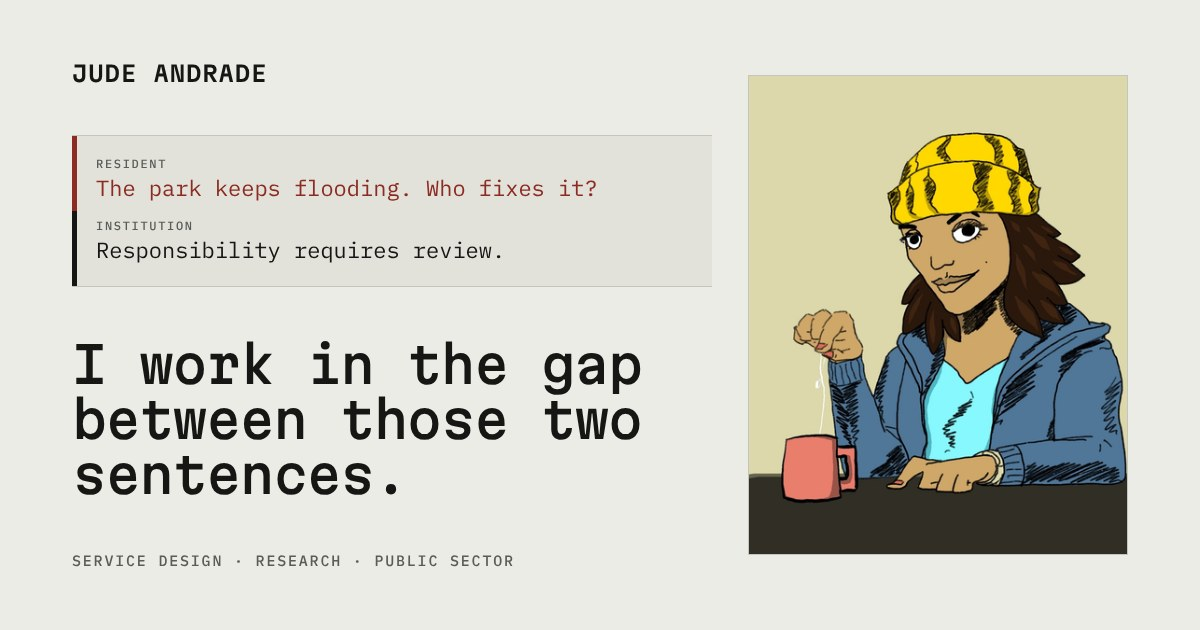
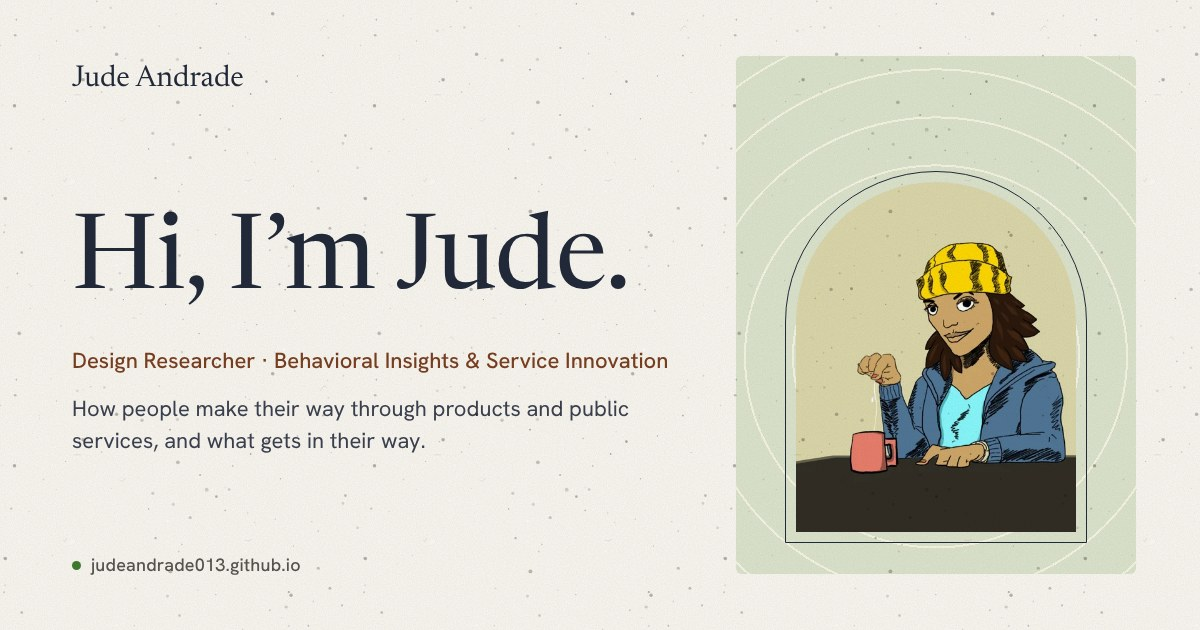
New link-preview image in the current design
Claude-Session: https://claude.ai/code/session_011crcDCecaUN1d2qwMdmWRM

diff --git a/index.html b/index.html
@@ -20,7 +20,11 @@
 (function(){var h=location.hash;if(!h)return;var m={"#cab-rules":"taxi","#koala":"koala","#public-services":"digital-services","#gallery":"digital-services","#memorial-park":"memorial-park","#fees":"fees"},p={"ko-":"koala","fp-":"digital-services","ms-":"memorial-park","fe-":"fees","tx-":"taxi","taxi-":"taxi"};var t=m[h];if(!t){for(var k in p){if(h.indexOf("#"+k)===0){t=p[k];break;}}}if(t)location.replace("work/"+t+".html"+(t==="taxi"||t==="koala"?"":h));})();
 </script>
 
-<meta content="https://judeandrade013.github.io/" property="og:url"/><meta content="https://judeandrade013.github.io/og-card.jpg?v=20261029" property="og:image"/><link href="https://judeandrade013.github.io/" rel="canonical"/><link href="favicon.svg?v=20261029" rel="icon" type="image/svg+xml"/></head>
+<meta content="https://judeandrade013.github.io/" property="og:url"/><meta content="https://judeandrade013.github.io/og-card.jpg?v=20261117" property="og:image"/>
+<meta content="1200" property="og:image:width"/>
+<meta content="630" property="og:image:height"/>
+<meta content="Jude Andrade, design researcher: Hi, I’m Jude." property="og:image:alt"/>
+<meta content="https://judeandrade013.github.io/og-card.jpg?v=20261117" name="twitter:image"/><link href="https://judeandrade013.github.io/" rel="canonical"/><link href="favicon.svg?v=20261029" rel="icon" type="image/svg+xml"/></head>
 <body>
 <a class="skip" href="#main">Skip to content</a>
 <nav aria-label="Main"><div class="wrap nav-in"><a class="mark" href="#top">Jude Andrade</a><div class="nav-links"><a href="#work">Work</a><a href="#about">About</a><a href="resume.pdf?v=20261117c" rel="noopener" target="_blank">Résumé ↗</a><a href="#contact">Contact</a></div></div></nav>

diff --git a/work/memorial-park.html b/work/memorial-park.html
@@ -9,7 +9,11 @@
 <meta content="article" property="og:type"/>
 <meta content="What would it take to get state funding for Memorial Park’s flooding?" property="og:title"/>
 <meta content="Memorial Park, along Pascack Brook, flooded badly four times between 2020 and 2023. In spring 2026 the Village wanted to apply for a state grant to address it, but it was running a deficit, and the application seemed to require a new engineering study it couldn’t easily pay for. I spent the next few months working out what the grant actually required." property="og:description"/>
-<meta content="https://judeandrade013.github.io/og-card.jpg" property="og:image"/>
+<meta content="https://judeandrade013.github.io/og-card.jpg?v=20261117" property="og:image"/>
+<meta content="1200" property="og:image:width"/>
+<meta content="630" property="og:image:height"/>
+<meta content="Jude Andrade, design researcher: Hi, I’m Jude." property="og:image:alt"/>
+<meta content="https://judeandrade013.github.io/og-card.jpg?v=20261117" name="twitter:image"/>
 <meta content="summary_large_image" name="twitter:card"/>
 <link href="../favicon.svg" rel="icon" type="image/svg+xml"/>
 <link href="https://fonts.googleapis.com" rel="preconnect"/>

diff --git a/work/taxi.html b/work/taxi.html
@@ -9,7 +9,11 @@
 <meta content="article" property="og:type"/>
 <meta content="The taxi law could see the driver, but not the business behind the ride" property="og:title"/>
 <meta content="In 2026, Spring Valley received more than 80 complaints about unlicensed “pirate” cabs in a single month. The obvious response was stricter enforcement. I spent the project trying to understand who actually organized the rides, and I ended up proposing changes to how the law defines and regulates an operator." property="og:description"/>
-<meta content="https://judeandrade013.github.io/og-card.jpg" property="og:image"/>
+<meta content="https://judeandrade013.github.io/og-card.jpg?v=20261117" property="og:image"/>
+<meta content="1200" property="og:image:width"/>
+<meta content="630" property="og:image:height"/>
+<meta content="Jude Andrade, design researcher: Hi, I’m Jude." property="og:image:alt"/>
+<meta content="https://judeandrade013.github.io/og-card.jpg?v=20261117" name="twitter:image"/>
 <meta content="summary_large_image" name="twitter:card"/>
 <link href="../favicon.svg" rel="icon" type="image/svg+xml"/>
 <link href="https://fonts.googleapis.com" rel="preconnect"/>

diff --git a/work/digital-services.html b/work/digital-services.html
@@ -9,7 +9,11 @@
 <meta content="article" property="og:type"/>
 <meta content="What happens after a resident submits a form?" property="og:title"/>
 <meta content="Until October 2026, the only way to reserve a Spring Valley park, community center, or the portable stage was a paper application picked up at Village Hall. I reorganized how residents find village forms, then set up and tested online requests for seven facilities inside the website platform the Village already had." property="og:description"/>
-<meta content="https://judeandrade013.github.io/og-card.jpg" property="og:image"/>
+<meta content="https://judeandrade013.github.io/og-card.jpg?v=20261117" property="og:image"/>
+<meta content="1200" property="og:image:width"/>
+<meta content="630" property="og:image:height"/>
+<meta content="Jude Andrade, design researcher: Hi, I’m Jude." property="og:image:alt"/>
+<meta content="https://judeandrade013.github.io/og-card.jpg?v=20261117" name="twitter:image"/>
 <meta content="summary_large_image" name="twitter:card"/>
 <link href="../favicon.svg" rel="icon" type="image/svg+xml"/>
 <link href="https://fonts.googleapis.com" rel="preconnect"/>

diff --git a/work/fees.html b/work/fees.html
@@ -9,7 +9,11 @@
 <meta content="article" property="og:type"/>
 <meta content="What does it actually cost the Village to process an application?" property="og:title"/>
 <meta content="I was asked to review Spring Valley’s fee schedule while the Village’s finances were under pressure. I ended up mapping the work behind 172 fees and rethinking how applications are classified and charged. The Village Board adopted the revised schedule." property="og:description"/>
-<meta content="https://judeandrade013.github.io/og-card.jpg" property="og:image"/>
+<meta content="https://judeandrade013.github.io/og-card.jpg?v=20261117" property="og:image"/>
+<meta content="1200" property="og:image:width"/>
+<meta content="630" property="og:image:height"/>
+<meta content="Jude Andrade, design researcher: Hi, I’m Jude." property="og:image:alt"/>
+<meta content="https://judeandrade013.github.io/og-card.jpg?v=20261117" name="twitter:image"/>
 <meta content="summary_large_image" name="twitter:card"/>
 <link href="../favicon.svg" rel="icon" type="image/svg+xml"/>
 <link href="https://fonts.googleapis.com" rel="preconnect"/>

diff --git a/work/koala.html b/work/koala.html
@@ -9,7 +9,11 @@
 <meta content="article" property="og:type"/>
 <meta content="Why timeshare owners gave up on the first page of a listing" property="og:title"/>
 <meta content="KOALA, an early-stage timeshare marketplace, was losing 75% of users within the first page of its listing process, and it had done little research on why. Our small team had two months to find out, and to fix the page people were leaving from." property="og:description"/>
-<meta content="https://judeandrade013.github.io/og-card.jpg" property="og:image"/>
+<meta content="https://judeandrade013.github.io/og-card.jpg?v=20261117" property="og:image"/>
+<meta content="1200" property="og:image:width"/>
+<meta content="630" property="og:image:height"/>
+<meta content="Jude Andrade, design researcher: Hi, I’m Jude." property="og:image:alt"/>
+<meta content="https://judeandrade013.github.io/og-card.jpg?v=20261117" name="twitter:image"/>
 <meta content="summary_large_image" name="twitter:card"/>
 <link href="../favicon.svg" rel="icon" type="image/svg+xml"/>
 <link href="https://fonts.googleapis.com" rel="preconnect"/>
